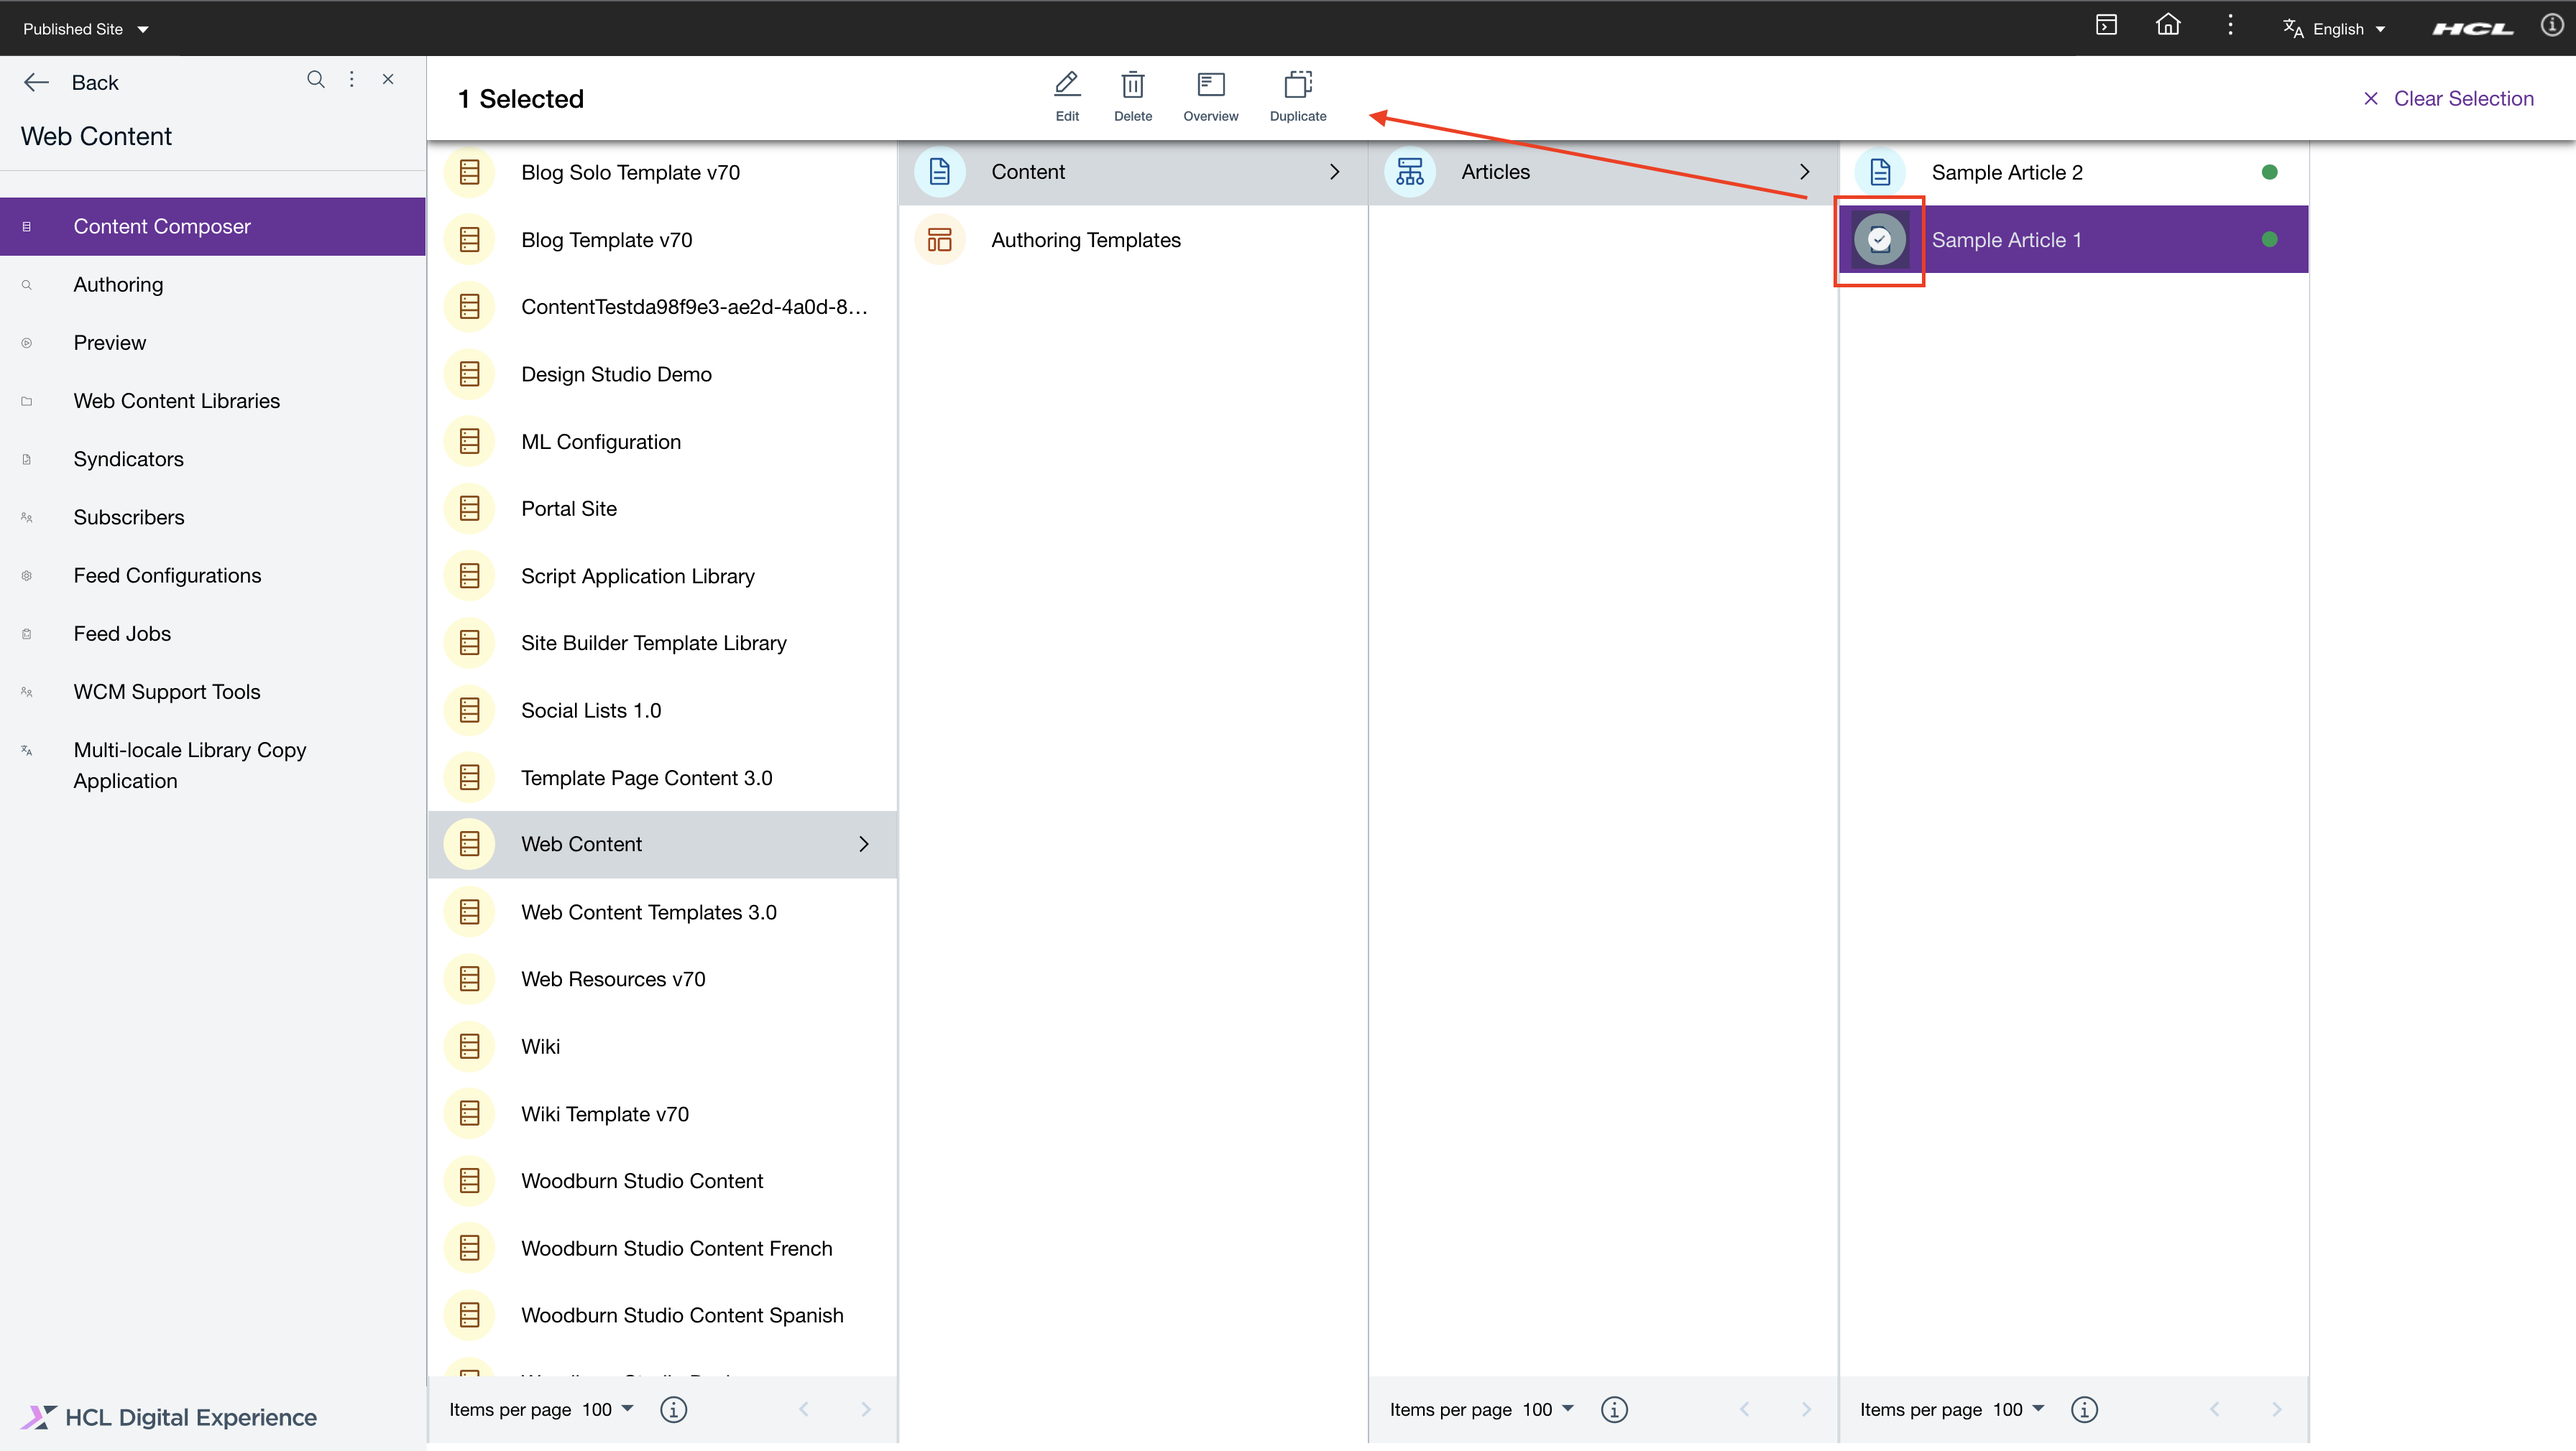
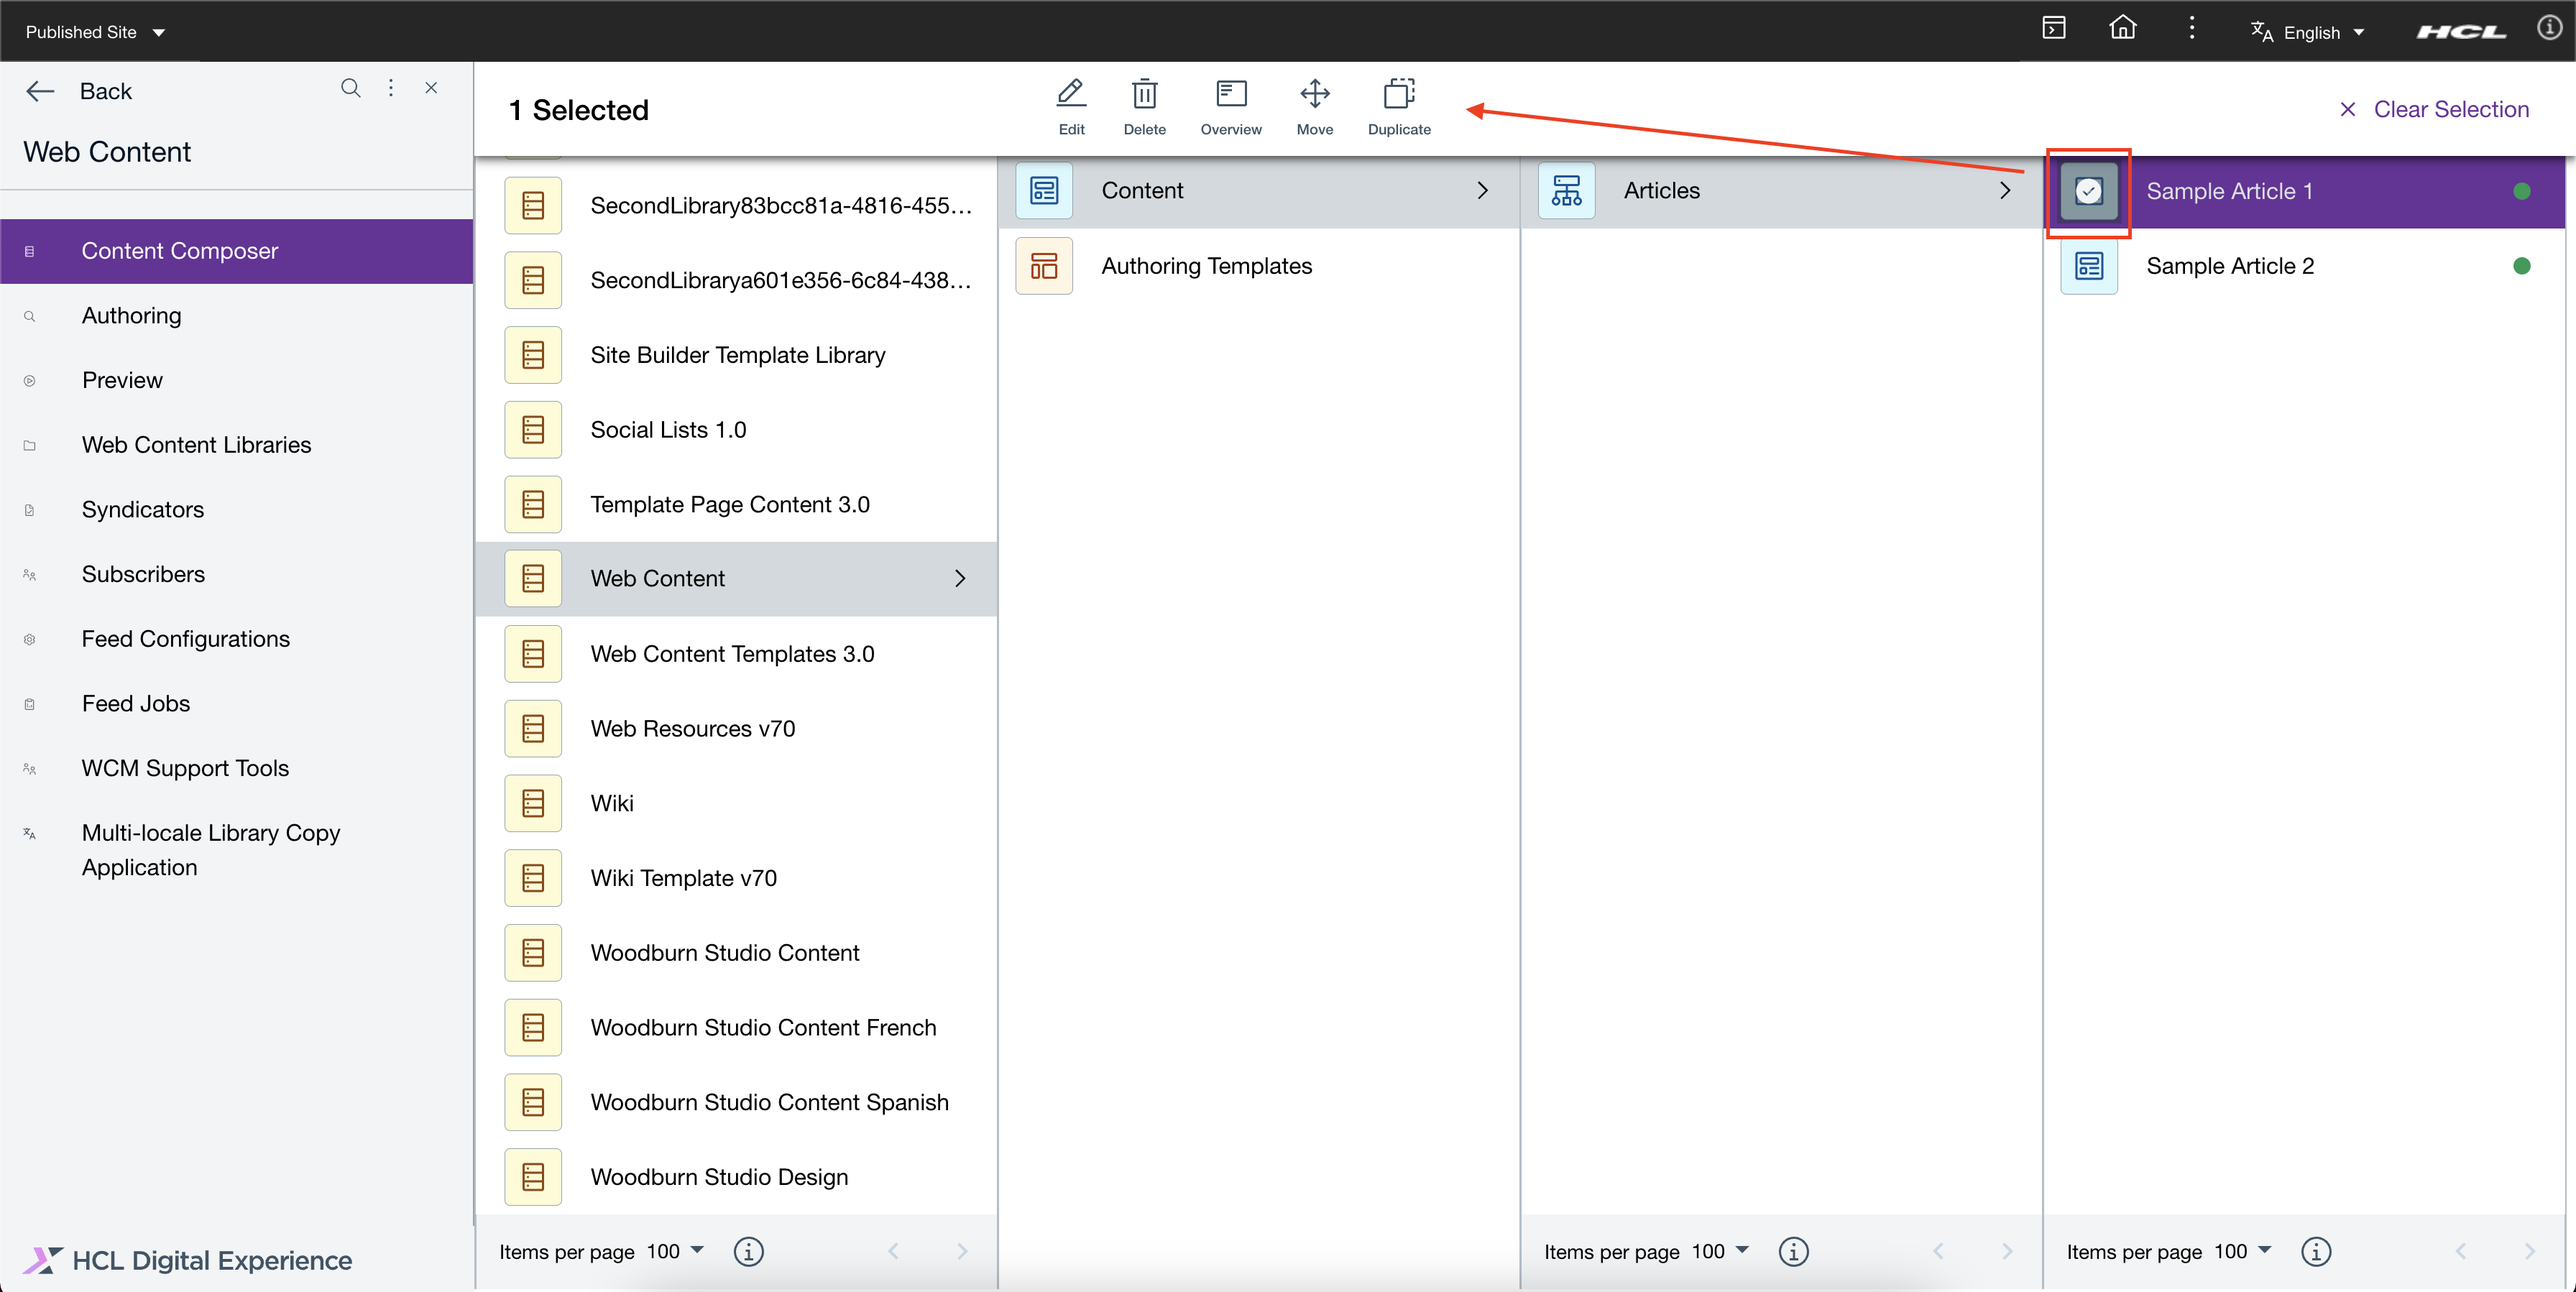
added moving of content item to another location

diff --git a/docs/manage_content/content_composer/usage/author_and_manage_content_items/author_content_items.md b/docs/manage_content/content_composer/usage/author_and_manage_content_items/author_content_items.md
@@ -91,9 +91,15 @@ The **Search Results** view allows users to perform content authoring actions.
 
 The **Dashboard** view allows users to perform content authoring actions.
 
+<<<<<<< Updated upstream
 1.  Selecting the avatar icons of the content items will enable display of **Edit** and **Delete** options from the Content Composer Dashboard view.
 
     Ticking the checkbox \(beside the **Content Title**\) presented in the **Content Collections** column will also enable context-specific **Edit** and **Delete** options for the content item to optionally proceed to the content item's details in **Edit mode**.
+=======
+1.  Selecting the avatar icons of the content items will enable display of **Edit**, **Delete**,  **Move**, and **Duplicate** options from the Content Composer Dashboard view.
+
+    Ticking the checkbox \(beside the **Content Title**\) presented in the **Content Collections** column will also enable context-specific **Edit**, **Delete**, **Move**, and **Duplicate** options for the content item to optionally proceed to the content item's details in **Edit mode**.
+>>>>>>> Stashed changes
 
     ![Authoring actions on HCL Content Composer Dashboard](../../../../assets/Authoring_actions_via_HCL_CC_Dashboard.png)
 

diff --git a/docs/manage_content/content_composer/usage/author_and_manage_content_items/manage_content_items.md b/docs/manage_content/content_composer/usage/author_and_manage_content_items/manage_content_items.md
@@ -45,6 +45,18 @@ Content users can view a light preview of uploaded content and more using HCL Co
 
 5.  Click the **Save** button or the drop-down to **Save and Close** in the upper right of the interface to save your completed content edits.
 
+## Move Content item
+
+Content users can move a content item to another site area location.
+
+1. Access the content item you wish to move. In this example, the content item example below \(**Image**\) is obtained from **Web Content \> Content \> Articles** site area location. Click the icon to select the content item. After doing so, click the **Move** icon on the header. 
+
+    ![Select Content Item to Move](../../../../assets/Select_Content_Item_to_Move_HCL_Content_Composer.png "Select Content Item to Move")
+
+2. A location selector should appear on the screen. Pick the site area to move the content to. After selecting, click the **Move** button to finalize moving of the content item.
+
+    ![Select a site area location and click Move](../../../../assets/Select_Site_Area_to_Move_Content_to_HCL_Content_Composer.png "Select a site area location and click Move")
+
 ## Add Comments
 
 !!!note
